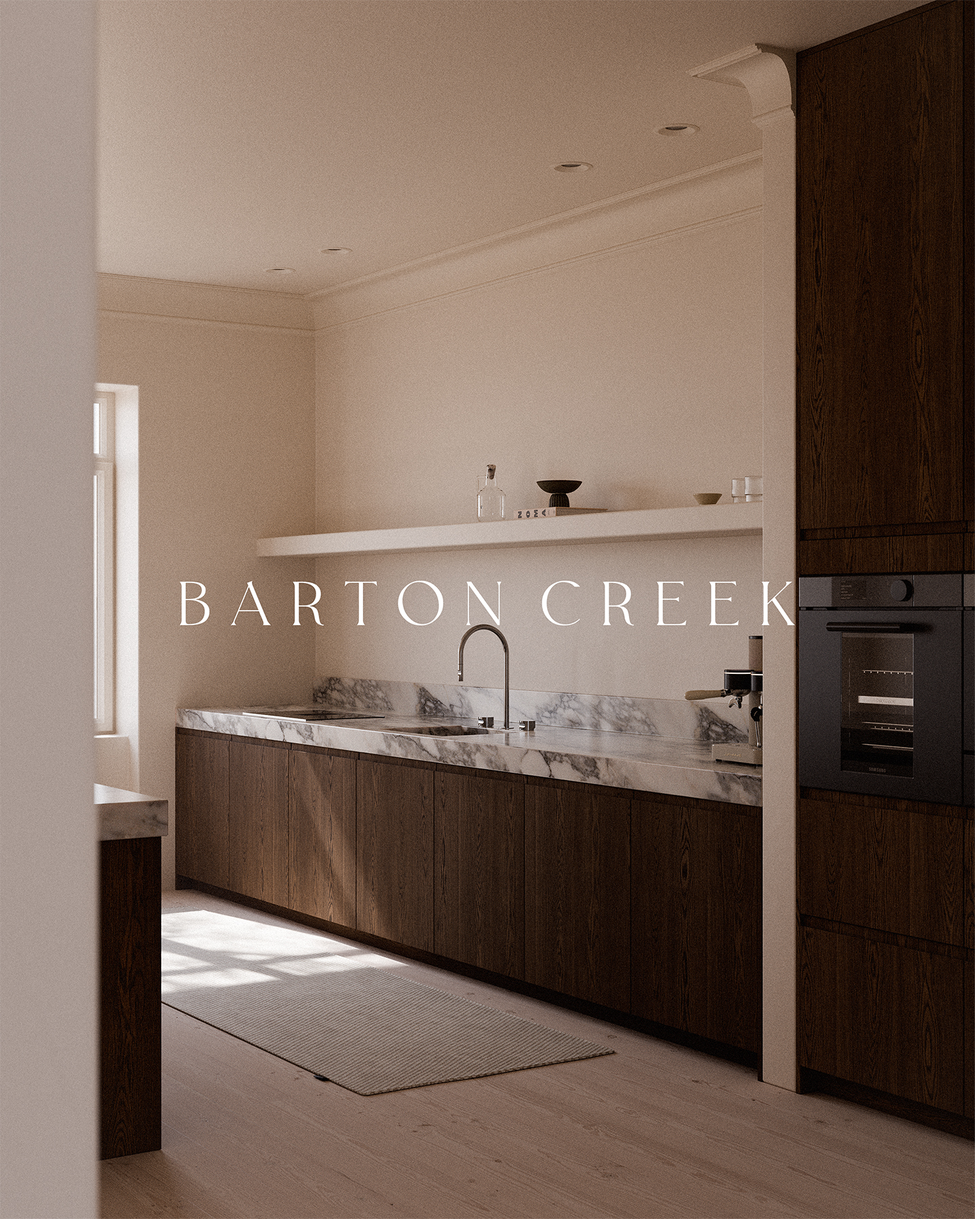
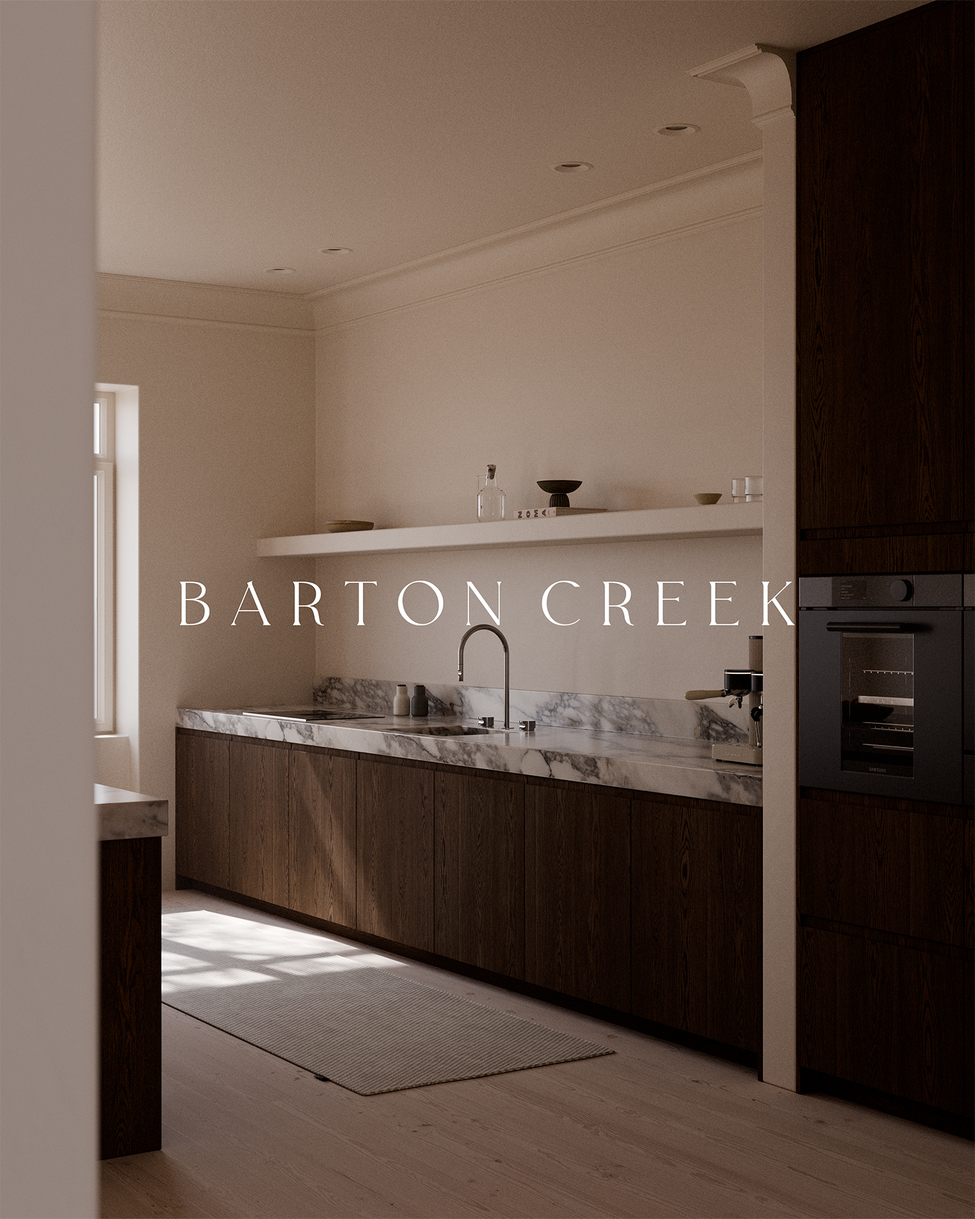
updated barton creek project

Changed region(s): [[0.0, 0.0, 1.0, 1.0], [0.8438, 0.56, 0.9375, 0.6222]]

diff --git a/project-data.js b/project-data.js
@@ -32,8 +32,8 @@ window.PROJECTS = {
     title: "Barton Creek",
     location: "Austin | Texas",
     subtitle: "Austin | Texas",
-    images: ["assets/project-3.jpg", "assets/project-4.jpg", "assets/project-1.jpg"],
-    text: ["An interior study organized around simple volumes, quiet surfaces and carefully framed transitions between domestic functions."]
+    images: ["assets/bartoncreek/bc01.jpg", "assets/bartoncreek/bc02.jpg", "assets/bartoncreek/bc03.jpg", "assets/bartoncreek/bc04.jpg"],
+    text: ["A warm, minimalist kitchen with wooden cabinetry, a marble countertop and backsplash, and a simple open shelf above the sink. Soft natural light comes through a window, highlighting the clean lines, neutral tones, and uncluttered design. This kitchen feels calm, intuitive, and easy to live in. The long, uncluttered countertop gives plenty of space to prep and move freely, while the integrated sink and smooth surfaces make cleaning feel effortless. Natural light pours in from the side window, creating a warm, inviting atmosphere that makes everyday tasks—like making coffee or cooking—feel more relaxed and enjoyable. The open shelf keeps essentials within reach without crowding the space, and the soft tones and materials create a sense of quiet focus, turning the kitchen into a peaceful, functional retreat rather than a busy workspace."]
   },
   "hygge": {
     title: "Hygge",

diff --git a/index.html b/index.html
@@ -46,7 +46,7 @@
             >Joshua Tree | California</span
           ></a
         >
-        <a class="card" href="#"
+        <a class="card" href="project.html?project=barton-creek"
           ><img src="assets/bartoncreek/bc_banner.jpg" alt="Barton Creek" /><span
             class="hover-title"
             >Austin | Texas</span
